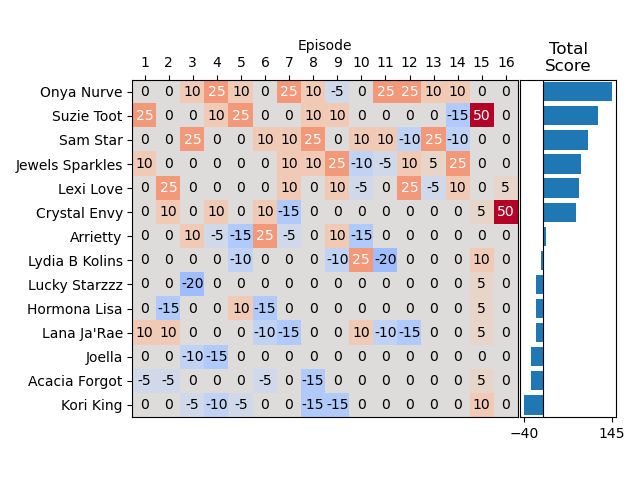
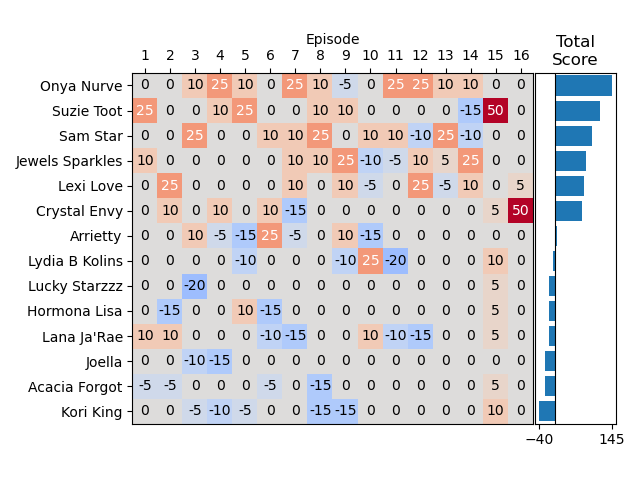
Update the site

Changed region(s): [[0.0312, 0.0625, 0.9688, 0.9375], [0.0312, 0.5625, 0.1875, 0.6562], [0.9375, 0.875, 0.9688, 0.9375]]

diff --git a/seasons/18/index.md b/seasons/18/index.md
@@ -115,11 +115,11 @@ This is how everybody ranked the queens this season:
 
 Here's how everybody is doing overall this season:
 
-|                   |   Brie |   Ty |   Josh |   Jacob |   Ryan |   Emilee |   Kolin |   Olivia |   Austin |   Bryan |   Jourdan |   Mom |
-|:------------------|-------:|-----:|-------:|--------:|-------:|---------:|--------:|---------:|---------:|--------:|----------:|------:|
-| Performance Score |    150 |  120 |     80 |      65 |     65 |       55 |      40 |       40 |       25 |      25 |         0 |   -30 |
-| Rank Score        |      0 |    0 |      0 |       0 |      0 |        0 |       0 |        0 |        0 |       0 |         0 |     0 |
-| Total Score       |    150 |  120 |     80 |      65 |     65 |       55 |      40 |       40 |       25 |      25 |         0 |   -30 |
+|                   |   Ty |   Jacob |   Brie |   Ryan |   Josh |   Olivia |   Emilee |   Austin |   Bryan |   Kolin |   Jourdan |   Mom |
+|:------------------|-----:|--------:|-------:|-------:|-------:|---------:|---------:|---------:|--------:|--------:|----------:|------:|
+| Performance Score |  230 |     200 |    190 |    175 |    175 |       80 |       50 |       50 |      10 |     -25 |       -75 |  -130 |
+| Rank Score        |   12 |       1 |      1 |      9 |      2 |        1 |        2 |        1 |      10 |       2 |        25 |    14 |
+| Total Score       |  242 |     201 |    191 |    184 |    177 |       81 |       52 |       51 |      20 |     -23 |       -50 |  -116 |
 
 ![Total Scores](plots/total_scores.png)
 
@@ -128,7 +128,7 @@ Here's how everybody is doing overall this season:
 ## Rank Scores
 
 Here is how every queen finished and how many points they earned for each contestant in the league. Queens still in the competition are at the bottom:
-ß
+
 ![Rank Scores](plots/rank_scores.png)
 
 ## Performance Scores

diff --git a/seasons/17/index.md b/seasons/17/index.md
@@ -128,7 +128,7 @@ Here's how everybody did overall this season:
 ## Rank Scores
 
 Here is how every queen finished and how many points they earned for each contestant in the league. Queens still in the competition are at the bottom:
-ß
+
 ![Rank Scores](plots/rank_scores.png)
 
 ## Performance Scores
